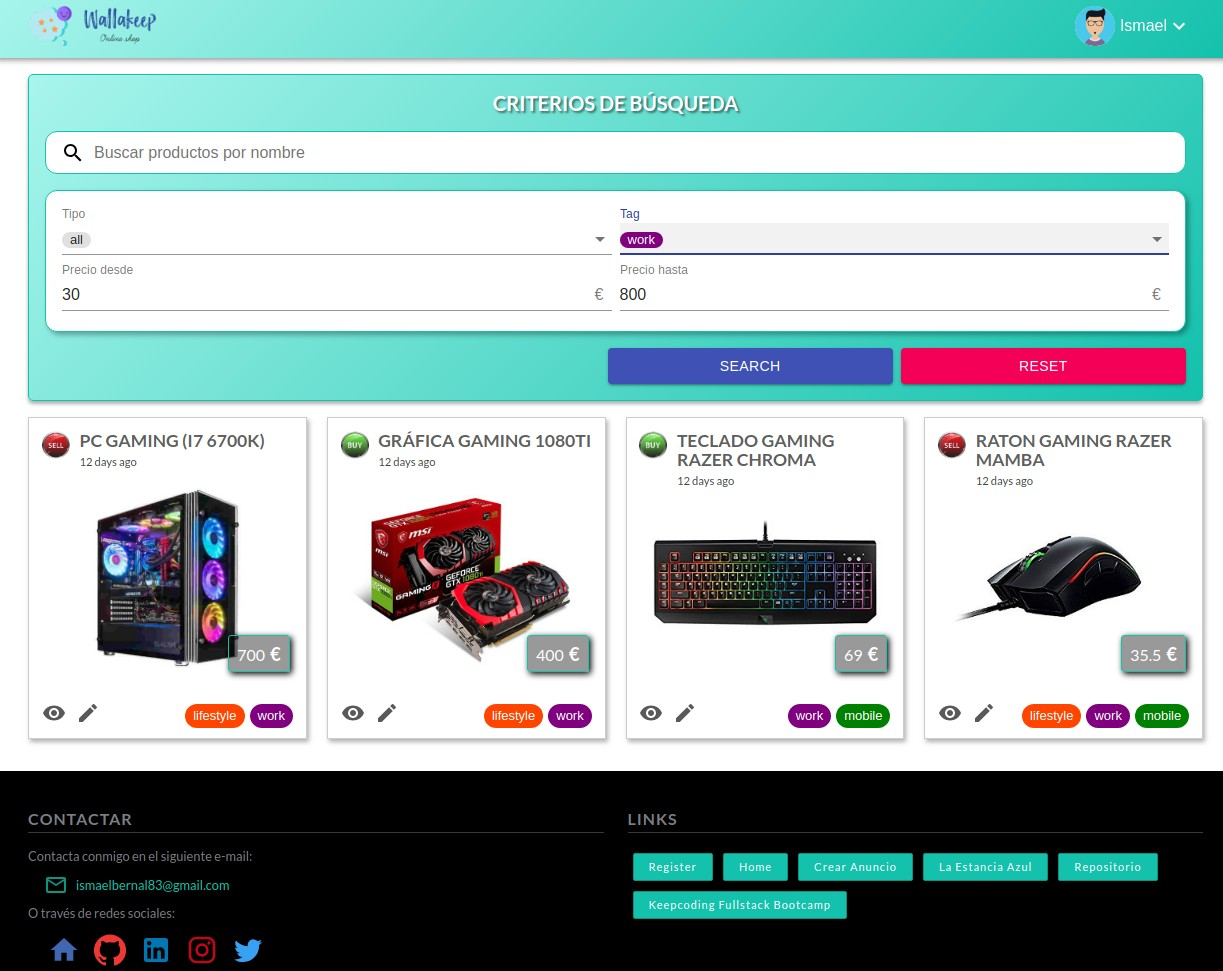
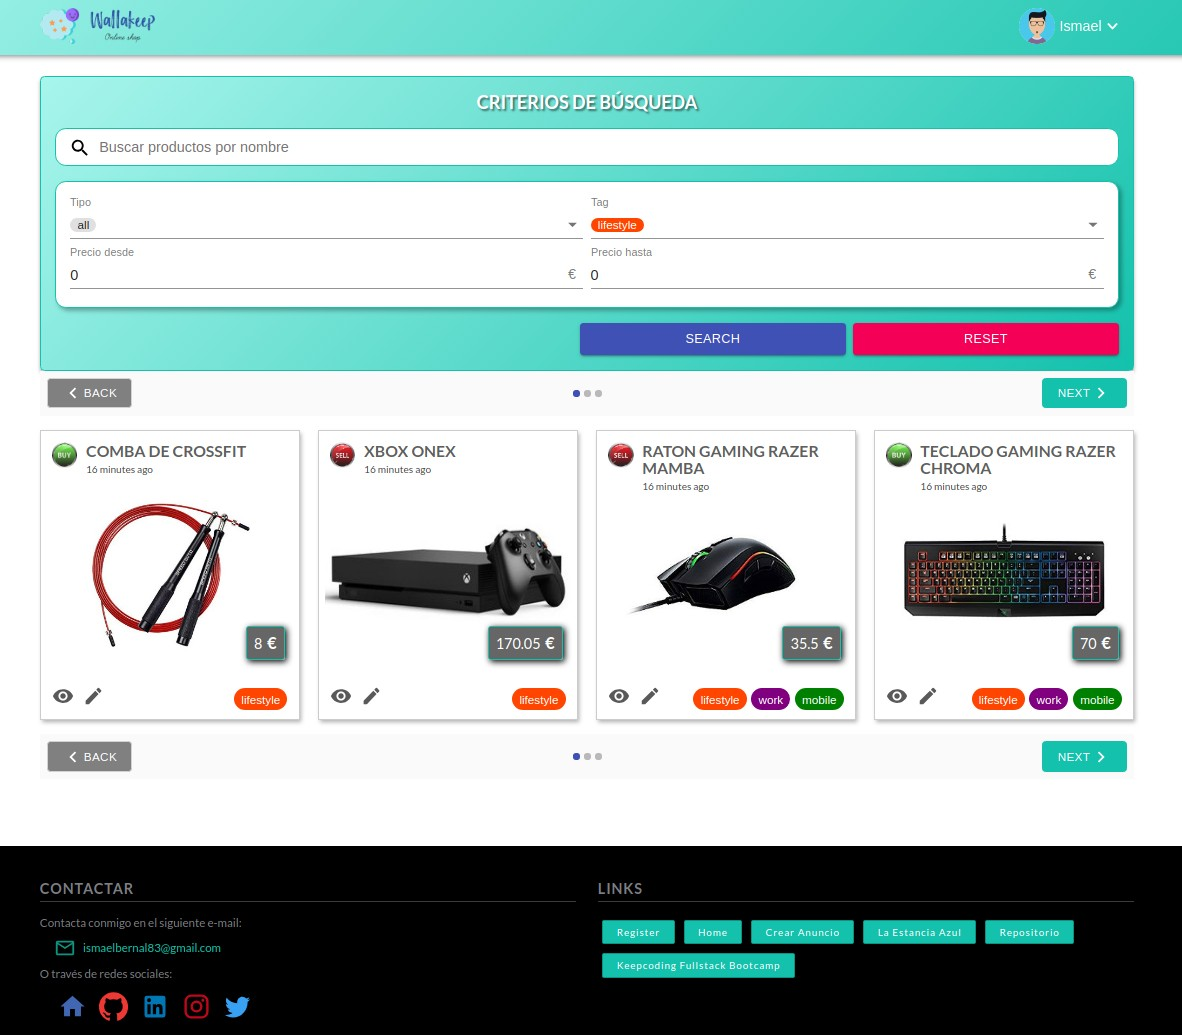
Añado el paginador al listado

diff --git a/src/components/Home/Home.js b/src/components/Home/Home.js
@@ -10,9 +10,10 @@ import SearchPanel from '../SearchPanel/SearchPanel';
 import UserConsumer from '../../context/UserContext';
 import NodepopAPI from '../../services/NodepopAPI';
 import AdvertCard from '../AdvertCard/AdvertCard';
-import Config from '../../config';
+import Paginator from '../Paginator/Paginator';
 import NavBar from '../NavBar/NavBar';
 import Footer from '../Footer/Footer';
+import Config from '../../config';
 /* Assets */
 import imageError from '../../assets/images/error.png';
 import imageSpinner from '../../assets/images/spinner.gif';
@@ -38,6 +39,8 @@ class Home extends Component {
       loading: true,
       error: false,
       api: new NodepopAPI(),
+      numPages: 0,
+      currentPage: 0,
     }
   }
 
@@ -45,6 +48,11 @@ class Home extends Component {
    * Render
    */
   render() {   
+    // Variables para el paginado
+    const { numPages, currentPage } = this.state;
+    const minAdvert = this.state.currentPage * Config.MAX_ADVERTS_GRID;
+    const maxAdvert = this.state.currentPage * Config.MAX_ADVERTS_GRID + Config.MAX_ADVERTS_GRID
+    // Render
     return (
       <React.Fragment>
         <header>
@@ -64,9 +72,10 @@ class Home extends Component {
               this.state.adverts && 
               <div className='Home__Results'>
                 <SearchPanel handleSearch={this.handleSearch} tags={this.state.tags} tag={this.state.tag}/>
+                <Paginator numPages={numPages} currentPage={currentPage} handleMovePaginator={this.handleMovePaginator}/>
                 <section className='Home__Grid'>
                   { this.state.adverts.length > 0 &&
-                    this.state.adverts.slice(0, Config.MAX_ADVERTS_GRID).map((advert, index) => 
+                    this.state.adverts.slice(minAdvert, maxAdvert).map((advert, index) => 
                       <AdvertCard key={advert._id} 
                                   id={advert._id} 
                                   name={advert.name} 
@@ -83,6 +92,7 @@ class Home extends Component {
                     <h2 className='Home__Subtitle'>No hay anuncios que cumplan con los criterios de búsqueda</h2>
                   }
                 </section>
+                <Paginator numPages={numPages} currentPage={currentPage} handleMovePaginator={this.handleMovePaginator}/>
               </div>
             }
             {
@@ -106,10 +116,6 @@ class Home extends Component {
         <Footer/>
       </React.Fragment>
     );
-  }
-
-  test = () => {
-    return 
   }
 
   /**
@@ -138,10 +144,13 @@ class Home extends Component {
   getAdverts = () => {
     this.state.api.getAdverts()
     .then(res => {
+      const numPages = Math.ceil(res.length/Config.MAX_ADVERTS_GRID);
       this.setState({
         error: false,
         loading: false,
-        adverts: res
+        adverts: res,
+        currentPage: 0,
+        numPages: numPages,
       })
     })
     .catch(() => {
@@ -160,10 +169,13 @@ class Home extends Component {
     // Llamo a la API con los filtros recibido
     this.state.api.searchAdvert(filters)
     .then(res => {
-      this.setState({
+      const numPages = Math.ceil(res.length/Config.MAX_ADVERTS_GRID);
+      this.setState({       
         error: false,
         loading: false,
-        adverts: res
+        adverts: res,
+        currentPage: 0,
+        numPages: numPages,
       })
     })
     .catch(() => {
@@ -175,6 +187,20 @@ class Home extends Component {
     });
   }
 
+  /**
+   * Retrocede una página
+   */
+  handleMovePaginator = increment => {
+    // Actualizo la pagina actual
+    let { currentPage, numPages } = this.state;
+    currentPage += increment;
+    // Actualizo el state sólo si sigue dentro de los limites (realmente este chequeo también lo hace el componete paginator)
+    if (currentPage >= 0 && currentPage < numPages) {
+        this.setState({
+          currentPage: currentPage
+        });   
+    }
+  }
 }
 
 export default withSnackbar(Home);

diff --git a/src/components/Paginator/Paginator.js b/src/components/Paginator/Paginator.js
@@ -1,0 +1,62 @@
+/* NPM modules */
+import React, { Component } from 'react';
+/* Material UI */
+import MobileStepper from '@material-ui/core/MobileStepper';
+import Button from '@material-ui/core/Button';
+import KeyboardArrowLeft from '@material-ui/icons/KeyboardArrowLeft';
+import KeyboardArrowRight from '@material-ui/icons/KeyboardArrowRight';
+/* Own modules */
+/* Assets */
+/* CSS */
+import './Paginator.css';
+
+/**
+* Main App
+*/
+export default class Paginator extends Component {
+      
+    /**
+    * Render
+    */
+    render() {   
+        return (
+            <MobileStepper
+                className='Paginator'
+                variant="dots"
+                steps={this.props.numPages}
+                position="static"
+                activeStep={this.props.currentPage}
+                backButton={
+                    <Button size="small" onClick={this.handleBack} disabled={this.props.currentPage === 0} className='Paginator__Button'>
+                    <KeyboardArrowLeft />
+                    Back
+                    </Button>
+                }
+                nextButton={
+                    <Button size="small" onClick={this.handleNext} disabled={this.props.currentPage === this.props.numPages - 1 } className='Paginator__Button'>
+                    Next
+                    <KeyboardArrowRight />
+                    </Button>
+                }
+            />    
+        );
+    }
+
+    /**
+     * Retroceder
+     */
+    handleBack = () => {
+        if (this.props.currentPage > 0) {
+            this.props.handleMovePaginator(-1);
+        }
+    }
+
+    /**
+     * Avanzar
+     */
+    handleNext = () => {
+        if (this.props.currentPage < this.props.numPages) {
+            this.props.handleMovePaginator(1);
+        }       
+    }
+}

diff --git a/src/components/Paginator/Paginator.css b/src/components/Paginator/Paginator.css
@@ -1,0 +1,18 @@
+.Paginator .Paginator__Button {
+    color: white;
+    padding-left: 1rem;
+    padding-right: 1rem;
+    background-color: var(--main-color);
+    border: 1px solid var(--main-color);
+}
+
+.Paginator .Paginator__Button:hover {
+    background-color: var(--main-color-dark);
+    border: 1px solid var(--main-color);
+}
+
+.Paginator .Paginator__Button:disabled {
+    color: white !important;
+    background-color: grey !important;
+    border: 1px solid lightgray !important;
+}

diff --git a/src/config/index.js b/src/config/index.js
@@ -3,9 +3,9 @@
  * Fichero de configuración
  */
 const config = {
-    API_URL: 'http://localhost:3001/apiv1',
-    API_IMAGES: 'http://localhost:3001/',
-    MAX_ADVERTS_GRID: 20
+    API_URL: 'http://192.168.1.33:3001/apiv1',
+    API_IMAGES: 'http://192.168.1.33:3001/',
+    MAX_ADVERTS_GRID: 4
 }
 
 export default config;

diff --git a/src/components/Home/Home.css b/src/components/Home/Home.css
@@ -1,10 +1,9 @@
 .Home__Grid {
-    padding: 1rem 0 0 0;
+    padding: 1rem 0;
     display: grid;
     grid-template-columns: repeat(auto-fit, minmax(250px, 1fr));
     grid-gap: 20px;
 }
-
 .Home__Loading, .Home__Error {
     display: flex;
     flex-direction: column;

diff --git a/README.md b/README.md
@@ -77,6 +77,8 @@ La pantalla principal permite realizar diversos filtrados de búsqueda: nombre (
 
 La búsqueda se realiza en tiempo real, a medida que el usuario modifica los parámetros de busqueda (nombre, etc.). La única excepción a esto son los campos de precio. En ese caso, sólo cuando el usuario pulse en el botón de buscar (SEARCH) se ejeutará la búsqueda. O bien cuando el campo precio pase a tener un valor en blanco (en ese momento la búsqueda se dispara de forma automática para excluir el filtrado por precio).
 
+**Nota sobre la paginación:** la app proporciona funcionalidad de paginación, pero realmente dado que la API no presenta paginación de forma nativa. En cada llamada a la API se están trayendo todos los anuncios. Lo cual no es eficiente.
+
 ![alt text](https://raw.githubusercontent.com/IsmaelB83/keepcoding-react-wallakeep/master/src/assets/images/readme/home_1.jpg).
 
 Además podemos acceder al detalle de cada uno de los anuncios concretos pulsando sobre el nombre del anuncio, sobre el icono del "ojo" o sobre el icono del "lapicero" (modo editar). De esta forma accederemos a las vistas encargadas de mostrarnos el detalle de un anuncio conreto:
